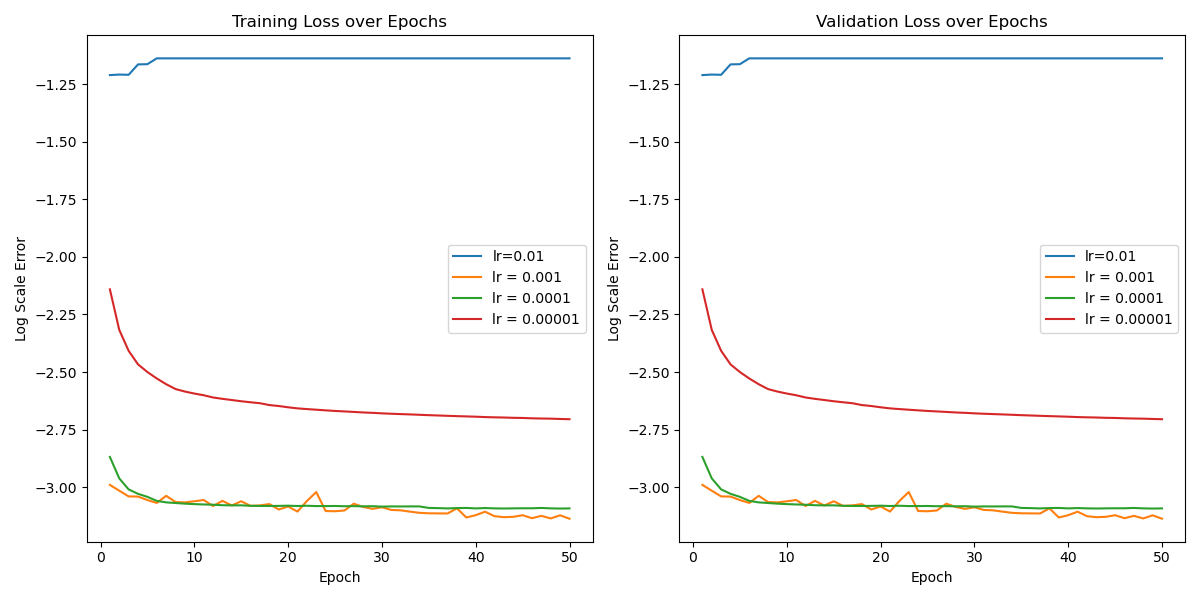
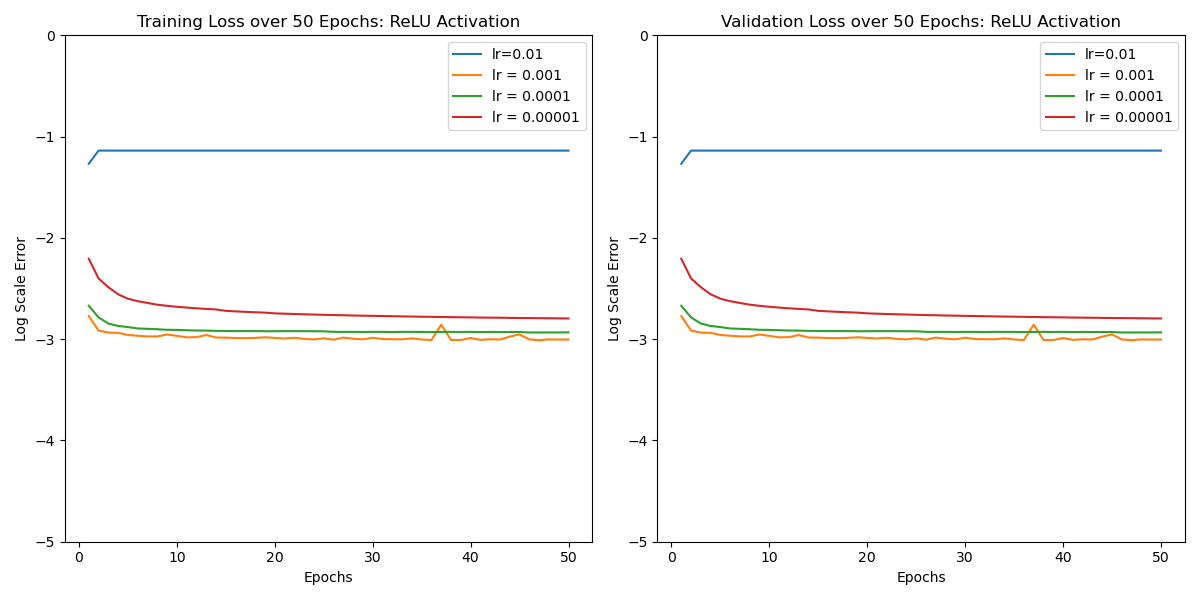
updated with results

diff --git a/compare_imgs.py b/compare_imgs.py
@@ -7,7 +7,7 @@ import matplotlib.pyplot  as plt
 import math
 # Load the model state dictionary
 cwd = os.getcwd()
-model_path = cwd+f'/data/model_lr = 0.0001.pth'
+model_path = cwd+f'/data/ReLU_model_lr = 0.0001.pth'
 state_dict = torch.load(model_path)
 
 # Instantiate a new model of the same architecture
@@ -52,23 +52,24 @@ for i in range(2):
             img = axs[i,j].imshow(cifar100_test_np[4*j],cmap='gray')
             axs[i,j].axis('off')
             axs[i,j].set_title(f'image {j}')
-        fig.colorbar(img, ax=axs[i, j], fraction=0.046, pad=0.04)     
+        fig.colorbar(img, ax=axs[i, j], fraction=0.046, pad=0.04)    
+fig.suptitle('Linear+Sigmoid Image Reconstruction Comparison', fontsize=16) 
 plt.show()
 
 
-def visualize_weights(model):
-    layers = [model.layer1, model.LNL_model, model.layer3]
-    fig, axs = plt.subplots(1, len(layers), figsize=(20, 5))
+# def visualize_weights(model):
+#     layers = [model.layer1, model.LNL_model, model.layer3]
+#     fig, axs = plt.subplots(1, len(layers), figsize=(20, 5))
 
-    for i, layer in enumerate(layers):
-        weights = layer.weight.data.numpy()
-        axs[i].imshow(weights, aspect='auto', cmap='gray')
-        axs[i].set_title(f'Layer {i + 1} Weights')
-        axs[i].set_xlabel('Neurons')
-        axs[i].set_ylabel('Input Features')
-        fig.colorbar(axs[i].images[0], ax=axs[i])
+#     for i, layer in enumerate(layers):
+#         weights = layer.weight.data.numpy()
+#         axs[i].imshow(weights, aspect='auto', cmap='gray')
+#         axs[i].set_title(f'Layer {i + 1} Weights')
+#         axs[i].set_xlabel('Neurons')
+#         axs[i].set_ylabel('Input Features')
+#         fig.colorbar(axs[i].images[0], ax=axs[i])
 
-    plt.show()
+#     plt.show()
 
-# Visualize the weights of the model
-visualize_weights(model_loaded)
+# # Visualize the weights of the model
+# visualize_weights(model_loaded)

diff --git a/plot_error.py b/plot_error.py
@@ -20,7 +20,7 @@ cwd = os.getcwd()
 
 #     print(data)
 
-with open(cwd + '/data/NN_output_50epoch_Linear.pkl', 'rb') as file:
+with open(cwd + '/data/NN_output_50epoch_0.5xSpread.pkl', 'rb') as file:
     data = pickle.load(file)
 
     #print(data[0])
@@ -35,29 +35,27 @@ labels = ['lr=0.01', 'lr = 0.001', 'lr = 0.0001', 'lr = 0.00001']
 log_data = data
 for i in range(data[0].shape[1]) :
     for j in range(data[0].shape[0]):
-        if i == 0:
-            continue
+
         log_data[0][j,i] = math.log(data[0][j,i])
     #print(i)
-    ax1.plot(x, log_data[0][:,i], label=labels[i-1])
+    ax1.plot(x, log_data[0][:,i], label=labels[i])
 
 ax1.set_xlabel('Epochs')
 ax1.set_ylabel('Log Scale Error')
-ax1.set_title('Training Loss over 50 Epochs: Linear Activation')
+ax1.set_title('Training Loss over 50 Epochs: Half Spread')
 ax1.set_ylim(-5, 0)
 ax1.legend()
 
 for i in range(data[1].shape[1]) :
     for j in range(data[1].shape[0]):
-        if i == 0:
-            continue
+
         log_data[1][j,i] = math.log(data[1][j,i])
     #print(i)
-    ax2.plot(x, log_data[1][:,i], label=labels[i-1])
+    ax2.plot(x, log_data[1][:,i], label=labels[i])
 
 ax2.set_xlabel('Epochs')
 ax2.set_ylabel('Log Scale Error')
-ax2.set_title('Validation Loss over 50 Epochs: Linear Activation')
+ax2.set_title('Validation Loss over 50 Epochs: Half Spread')
 ax2.set_ylim(-5, 0)
 ax2.legend()
 

diff --git a/Full_model.py b/Full_model.py
@@ -21,7 +21,7 @@ class AutoEncoder(nn.Module):
         self.activation2 = nn.Sigmoid()
     def forward(self, x):
         x = self.layer1(x) 
-        #x = self.activation(x)
+        x = self.activation(x)
         x = self.LNL_model(x)  
         x = self.activation(x)
         x = self.layer3(x)
@@ -31,7 +31,7 @@ class AutoEncoder(nn.Module):
 
 if __name__ == "__main__":
     # # Number of epochs
-    n_epochs = 50
+    n_epochs = 20
     learning_rates = [0.01, 0.001, 0.0001, 0.00001]
     train_err = torch.zeros(n_epochs,len(learning_rates))
     val_err = torch.zeros(n_epochs,len(learning_rates))

diff --git a/LNL.py b/LNL.py
@@ -60,7 +60,7 @@ def relu_nonlinearity(xx):
     return np.maximum(0,xx)
 
 activ_spread = 0
-current_spread = 1
+current_spread = 0.5
 W_d = get_linear_ERF_mapping(neu_side_dim, elec_side_dim, grid_side_dim, activ_spread,current_spread)
 
 #==============================================================================================================
